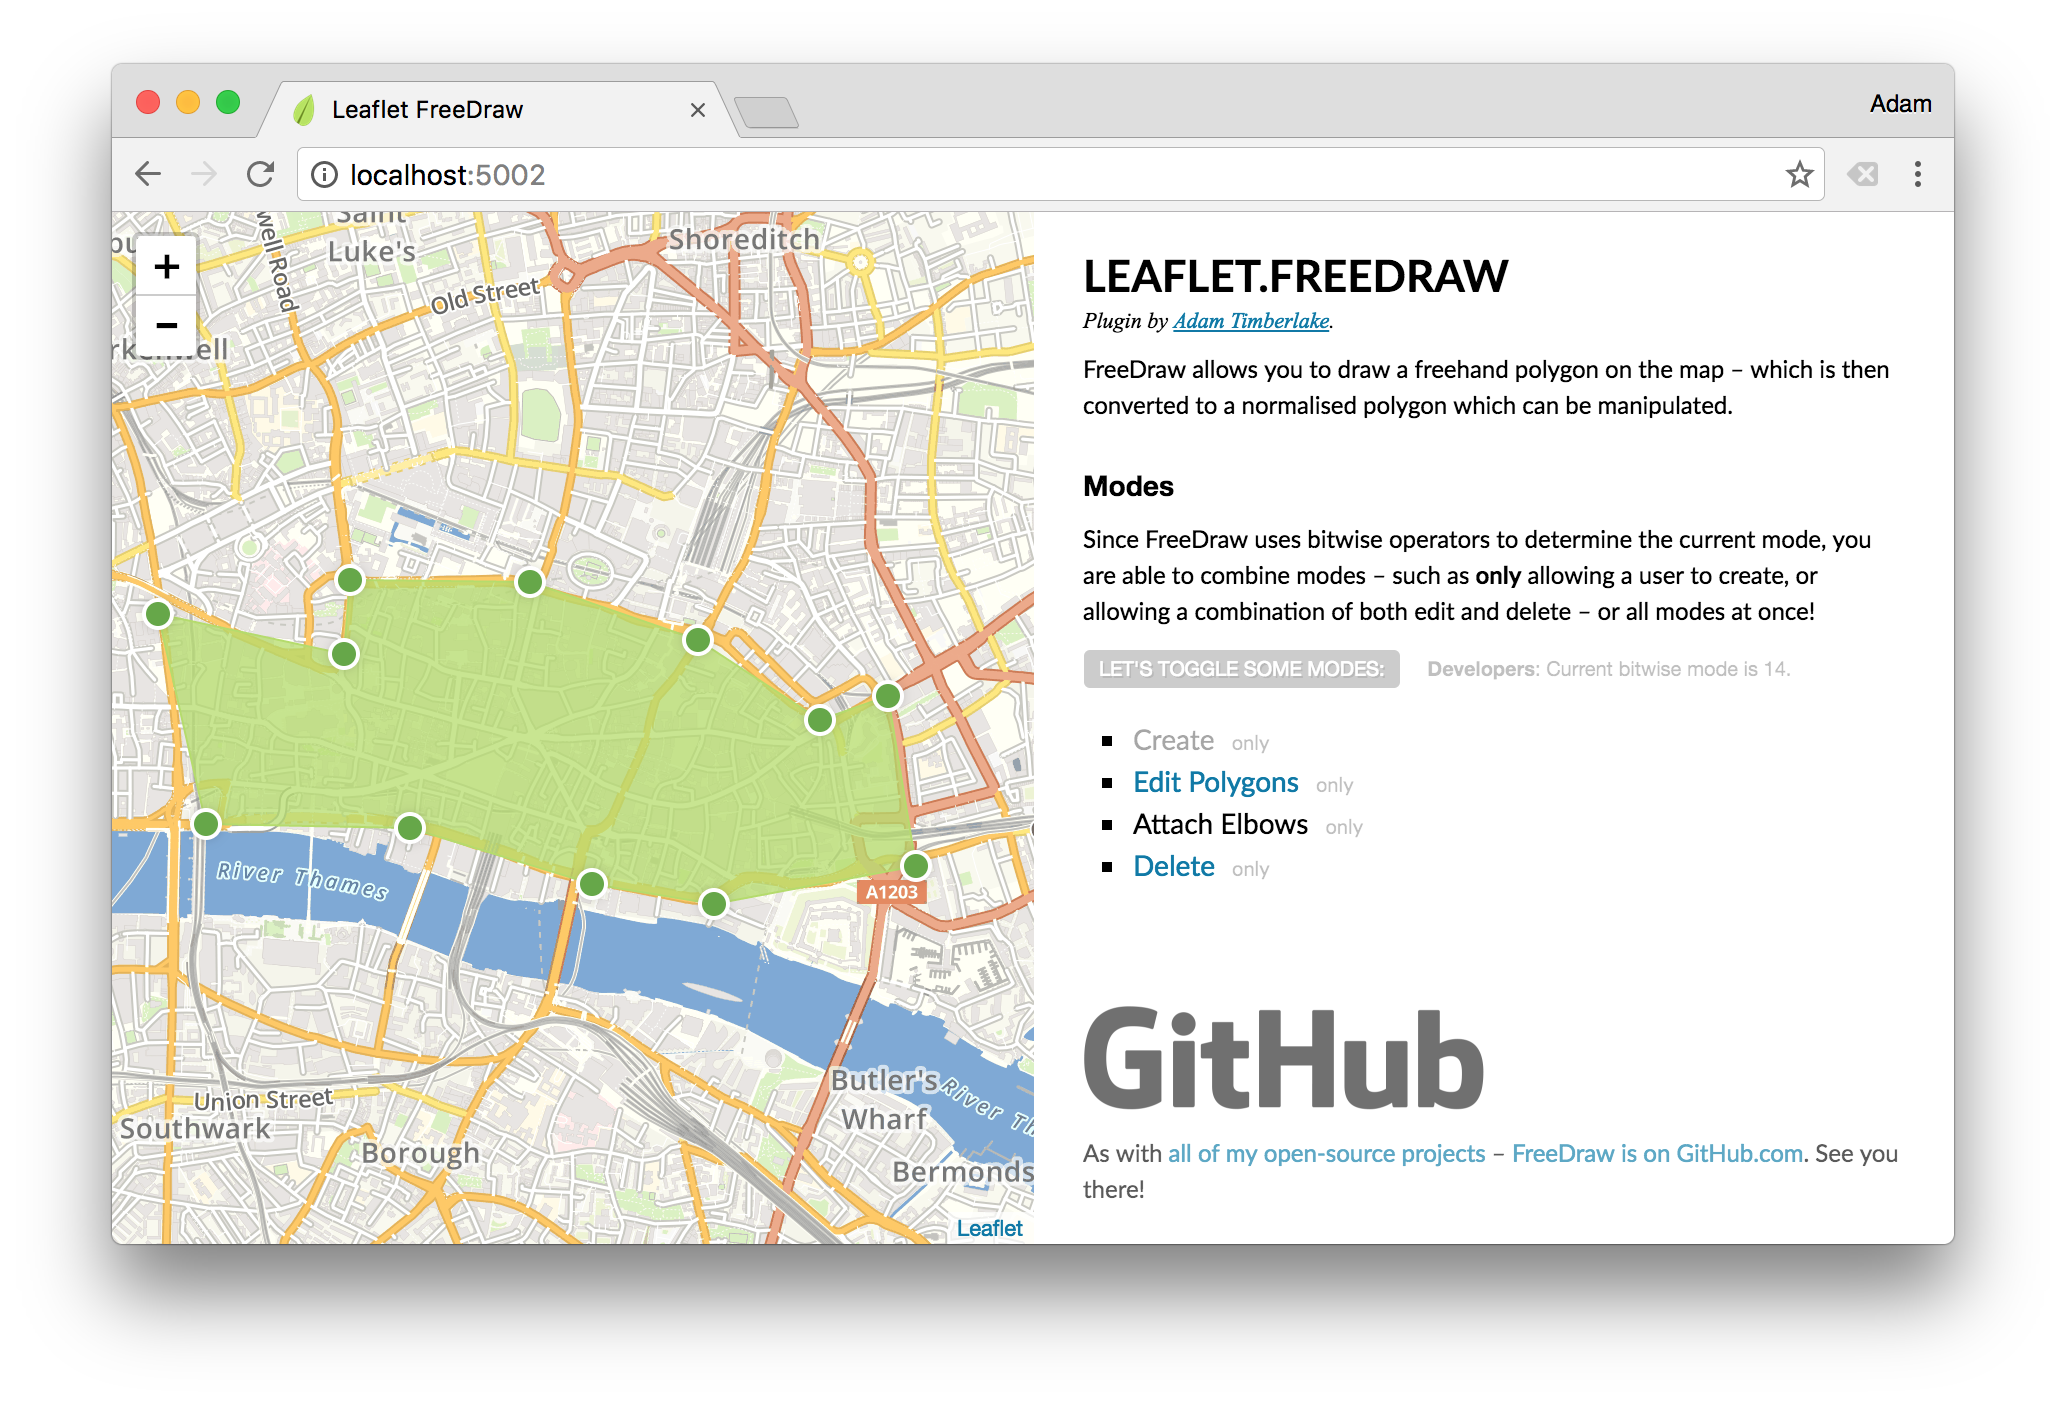
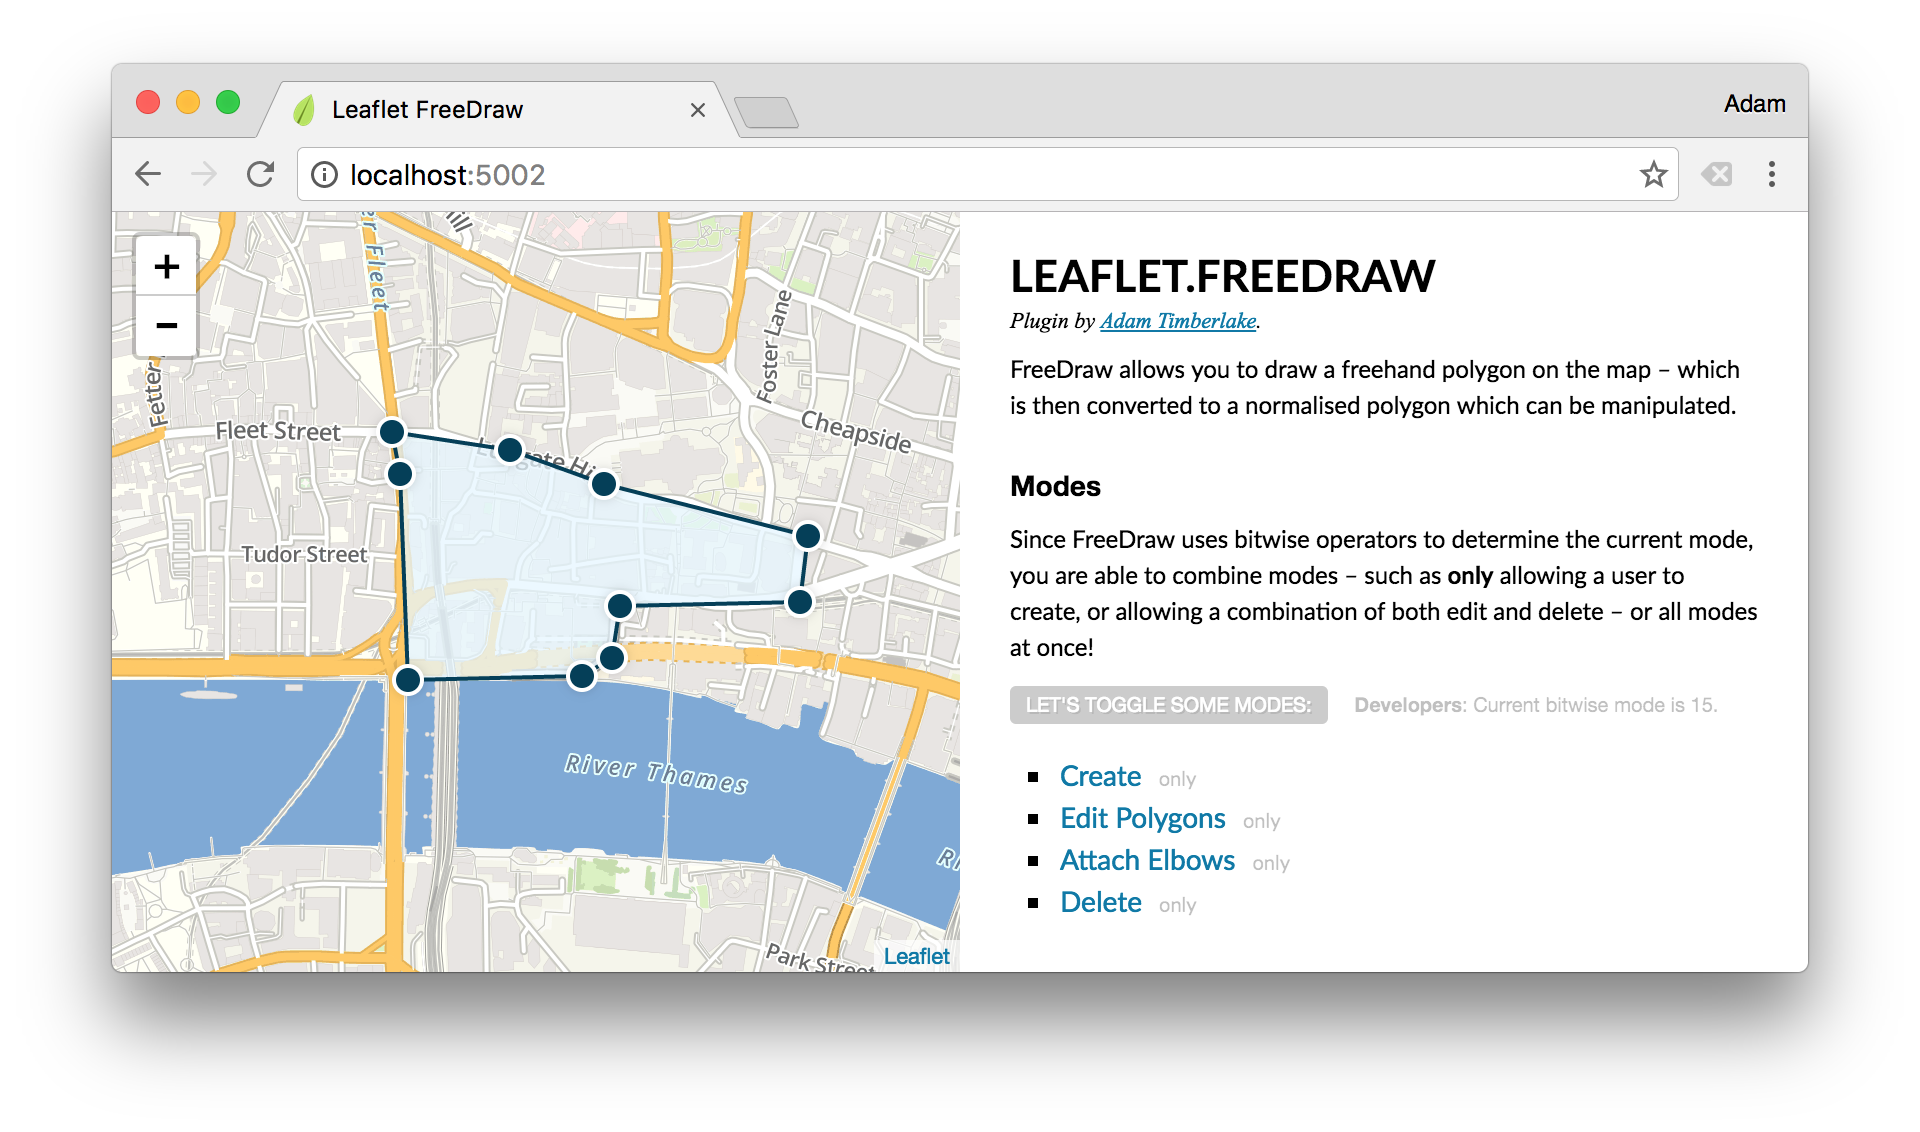
Updated screenshot and map styles

diff --git a/example/css/default.css b/example/css/default.css
@@ -128,12 +128,12 @@ section.map.mode-create {
 }
 
 path.leaflet-line {
-    stroke: #64a843;
+    stroke: #003f59;
     stroke-width: 2;
 }
 
 div.leaflet-edge {
-    background-color: #64a843;
+    background-color: #003f59;
     box-shadow: 0 0 0 2px white, 0 0 10px rgba(0, 0, 0, .35);
     border-radius: 50%;
     cursor: move;
@@ -147,8 +147,8 @@ div.leaflet-edge.disabled {
 }
 
 path.leaflet-polygon {
-    fill: #b4dd66;
-    stroke: #b4dd66;
-    stroke-width: 1px;
+    fill: #e5f6ff;
+    stroke: #003f59;
+    stroke-width: 2px;
     fill-opacity: .75;
 }

diff --git a/src/FreeDraw.js b/src/FreeDraw.js
@@ -19,9 +19,9 @@ export const polygons = new WeakMap();
  */
 const defaultOptions = {
     mode: ALL,
-    smoothFactor: 5,
+    smoothFactor: 1,
     elbowDistance: 10,
-    simplifyFactor: 2,
+    simplifyFactor: 1.1,
     mergePolygons: true,
     concavePolygon: true,
     recreatePostEdit: false
